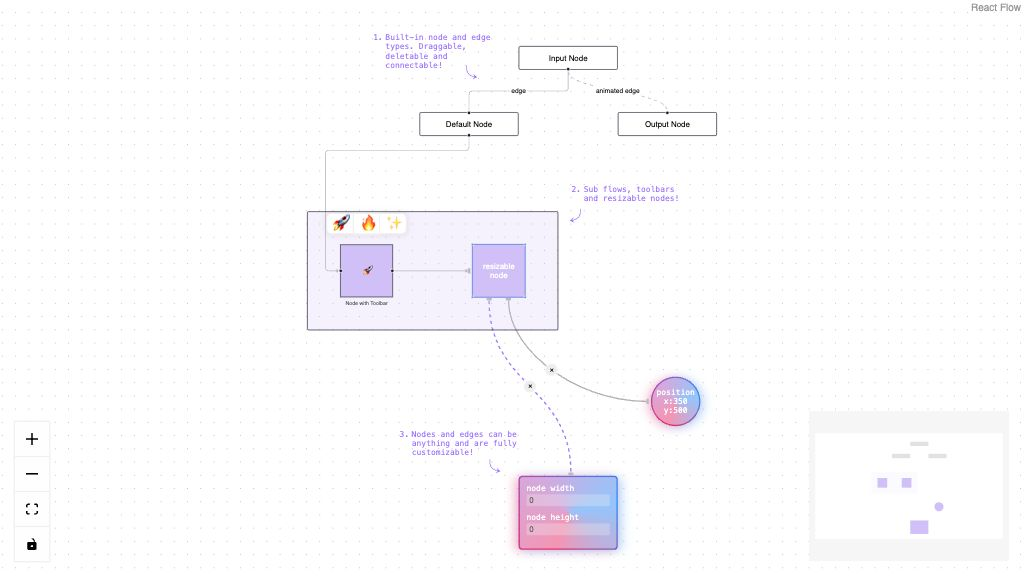
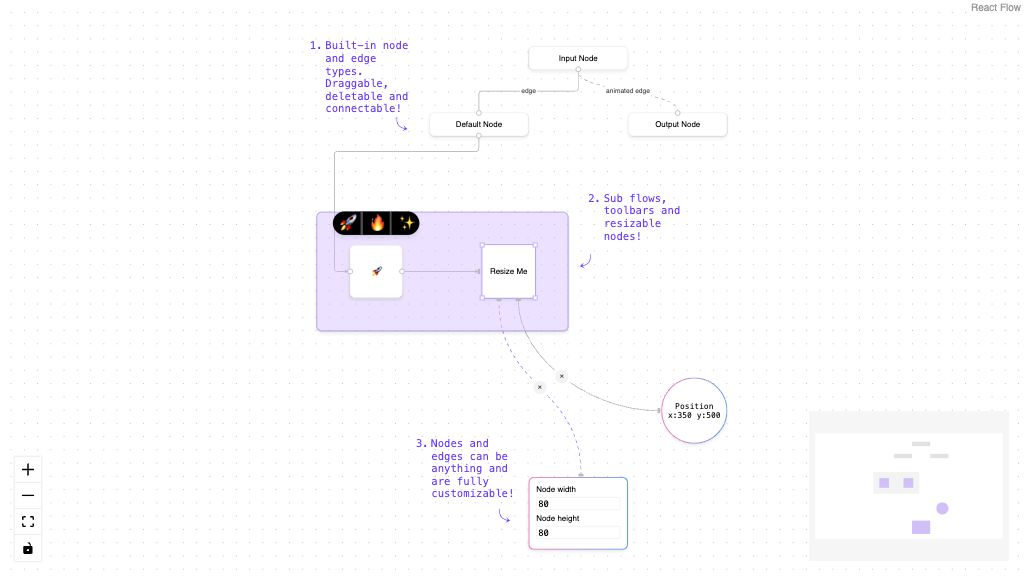
refactor(overview-example): add preview; move css groups; add theming documentation

diff --git a/apps/example-apps/react/examples/misc/overview/index.css b/apps/example-apps/react/examples/misc/overview/index.css
@@ -1,11 +1,10 @@
 
 .react-flow {
-  --xy-theme-selected-default: #B2004F;
-  --xy-theme-hover-default: #FE4C96;
+  /* Custom Variables */
+  --xy-theme-selected: #B2004F;
+  --xy-theme-hover: #FE4C96;
 
-  --xy-edge-stroke-default: #AAAAAA;
-  --xy-edge-stroke-selected-default: #FF0072;
-
+  /* Built-in Variables see https://reactflow.dev/learn/customization/theming */
   --xy-node-border-default: 1px solid #EDEDED;
 
   --xy-node-boxshadow-default: 
@@ -13,14 +12,12 @@
     0px 3.54px 4.55px 0px #0000000D, 
     0px 0.51px 1.01px 0px #0000001A;
 
-  --xy-node-boxshadow-hover-default: 0 1px 4px 1px rgba(227, 227, 227, 0.85);
   --xy-node-border-radius-default: 8px;
 
   --xy-handle-background-color-default: #ffffff;
   --xy-handle-border-color-default: #AAAAAA;
 
   --xy-edge-label-color-default: #505050;
-  --xy-resize-background-color-default: #9E86ED;
 }
 
 html,
@@ -35,7 +32,7 @@ body {
   height: 100vh;
 }
 
-/* General Nodes */
+/* Customizing Default Theming */
 
 .react-flow__node {
   box-shadow: var(--xy-node-boxshadow-default);
@@ -55,13 +52,12 @@ body {
 
 .react-flow__node.selectable:hover, 
 .react-flow__node.draggable:hover {
-  border-color: var(--xy-theme-hover-default);
+  border-color: var(--xy-theme-hover);
 }
 
 .react-flow__node.selectable.selected,
-.react-flow__node.selectable:focus,
-.react-flow__node.selectable:focus-visible {
-  border-color: var(--xy-theme-selected-default);
+.react-flow__node.selectable:focus {
+  border-color: var(--xy-theme-selected);
   box-shadow: var(--xy-node-boxshadow-default);
 }
 
@@ -71,70 +67,29 @@ body {
 }
 
 .react-flow__edge.selectable:hover .react-flow__edge-path {
-  stroke: var(--xy-theme-hover-default);
+  stroke: var(--xy-theme-hover);
 }
 
 .react-flow__edge.selectable.selected .react-flow__edge-path {
-  stroke: var(--xy-theme-selected-default);
+  stroke: var(--xy-theme-selected);
 }
 
-.react-flow__handle.connectionindicator:hover, 
-.react-flow__handle.connectingfrom {
+.react-flow__handle.connectionindicator:hover {
   pointer-events: all;
-  border-color: var(--xy-theme-hover-default);
-  background-color: var(--xy-theme-hover-default);
+  border-color: var(--xy-theme-hover);
+  background-color: var(--xy-theme-hover);
 }
 
 .react-flow__handle.connectionindicator:focus, 
-.react-flow__handle.connectingfrom {
-  pointer-events: all;
-  border-color: var(--xy-theme-selected-default);
-  background-color: var(--xy-theme-selected-default);
-}
-
-
-.react-flow__node-resizer {
-  border-radius: 0;
-  border: none;
-}
-
-.react-flow__resize-control.handle {
-  background-color: #ffffff;
-  border-color: var(--xy-resize-background-color-default);
-  border-radius: 0;
-  width: 5px;
-  height: 5px;
-}
-
-
-/* Minimap */
-
-.react-flow__minimap .group {
-  fill-opacity: 0.4;
-}
-
-.react-flow__minimap .resizer,
-.react-flow__minimap .tools,
-.react-flow__minimap .circle,
-.react-flow__minimap .textinput {
-  fill: rgb(208, 192, 247);
-}
-
-.react-flow__minimap .circle {
-  rx: 100%;
-  ry: 100%;
-}
-
-.react-flow__minimap .annotation {
-  display: none;
+.react-flow__handle.connectingfrom,
+.react-flow__handle.connectingto {
+  border-color: var(--xy-theme-selected);
+  background-color: var(--xy-theme-selected);
 }
 
 /* Circle Node */
 
 .react-flow__node-circle {
-  transform: translate(13.3214px, 390.276px);
-  pointer-events: all;
-  visibility: visible;
   border-radius: 50%;
   height: 100px;
   width: 100px;
@@ -148,29 +103,25 @@ body {
 .circle-node__inner {
   background-color: inherit;
   position: absolute;
-  top: 0;
-  left: 0; 
-  right: 0; 
-  bottom: 0; 
+  inset: 0;
   border-radius: 50%;
   display: flex;                
   justify-content: center;    
   align-items: center;     
-  margin: 1.5px;
-  pointer-events: none;
+  margin: 1.5px; 
 }
 
-/* Text Input */
+/* Text Input Node */
 
 .react-flow__node-textinput {
-  border: 0;
+  border: none;
   padding: 0;
+  font-family: monospace;
   background-image: linear-gradient(270deg, #659DF7 0%, #F57DBD 100%);
 }
 
 .text-input-node__inner {
   background-color: inherit;
-  z-index: -1;
   margin: 1.5px;
   padding: 10px;
   text-align: left;
@@ -181,11 +132,8 @@ body {
   width: 100%;
   box-sizing: border-box;
   margin: 5px 0px;
-  overflow: hidden;
-  font-family: monospace;
   border-radius: 3px;
   border: var(--xy-node-border-default);
-  outline: 0;
 }
 
 .text-input-node__input::-webkit-outer-spin-button,
@@ -196,45 +144,6 @@ input[type="number"]::-webkit-inner-spin-button {
 .text-input-node__input {
   -moz-appearance: textfield;
   appearance: textfield;
-}
-
-/* Custom Handles */
-
-.react-flow__node-resizer .react-flow__handle,
-.react-flow__node-circle .react-flow__handle,
-.react-flow__node-textinput .react-flow__handle {
-  background: #bbb;
-  border-radius: 0;
-  width: 8px;
-  height: 4px;
-  border: none;
-  min-width: 2px;
-  min-height: 2px;
-}
-
-.react-flow__node-resizer .react-flow__handle-bottom,
-.react-flow__node-circle .react-flow__handle-bottom,
-.react-flow__node-textinput .react-flow__handle-bottom {
-  bottom: -5px;
-  transform: none;
-  border-radius: 0 0 2px 2px;
-}
-
-.react-flow__node-resizer .react-flow__handle-top,
-.react-flow__node-circle .react-flow__handle-top,
-.react-flow__node-textinput .react-flow__handle-top {
-  top: -5px;
-  transform: none;
-  border-radius: 2px 2px 0 0;
-}
-
-.react-flow__node-resizer .react-flow__handle-left,
-.react-flow__node-circle .react-flow__handle-left,
-.react-flow__node-textinput .react-flow__handle-left {
-  height: 8px;
-  width: 4px;
-  left: -5px;
-  border-radius: 2px 0 0 2px;
 }
 
 /* Annotation Node */
@@ -289,6 +198,37 @@ input[type="number"]::-webkit-inner-spin-button {
   border-left: 2px solid #4d4d4d;
 }
 
+/* Resizer Node */
+
+.react-flow__node-resizer {
+  border-radius: 0;
+  border: none;
+}
+
+.react-flow__resize-control.handle {
+  background-color: #ffffff;
+  border-color: #9E86ED;
+  border-radius: 0;
+  width: 5px;
+  height: 5px;
+}
+
+.resizer-node__handles {
+  display: flex;
+  position: absolute;
+  bottom: 0;
+  width: 100%;
+  justify-content: space-evenly;
+  left: 0;
+}
+
+.resizer-node__handle {
+  position: relative;
+  left: 0;
+  transform: none;
+}
+
+
 /* Button Edge */
 
 .button-edge__label {
@@ -310,23 +250,68 @@ input[type="number"]::-webkit-inner-spin-button {
 }
 
 .button-edge__button:hover {
-  background-color: var(--xy-theme-hover-default);
+  background-color: var(--xy-theme-hover);
   color: #ffffff;
 }
 
-/* Resizer Node */
+/* Custom Handles */
 
-.resizer-node__handles {
-  display: flex;
-  position: absolute;
-  bottom: 0;
-  width: 100%;
-  justify-content: space-evenly;
-  left: 0;
+.react-flow__node-resizer .react-flow__handle,
+.react-flow__node-circle .react-flow__handle,
+.react-flow__node-textinput .react-flow__handle {
+  background: #bbb;
+  border-radius: 0;
+  width: 8px;
+  height: 4px;
+  border: none;
+  min-width: 2px;
+  min-height: 2px;
 }
 
-.resizer-node__handle {
-  position: relative;
-  left: 0;
+.react-flow__node-resizer .react-flow__handle-bottom,
+.react-flow__node-circle .react-flow__handle-bottom,
+.react-flow__node-textinput .react-flow__handle-bottom {
+  bottom: -5px;
   transform: none;
+  border-radius: 0 0 2px 2px;
+}
+
+.react-flow__node-resizer .react-flow__handle-top,
+.react-flow__node-circle .react-flow__handle-top,
+.react-flow__node-textinput .react-flow__handle-top {
+  top: -5px;
+  transform: none;
+  border-radius: 2px 2px 0 0;
+}
+
+.react-flow__node-resizer .react-flow__handle-left,
+.react-flow__node-circle .react-flow__handle-left,
+.react-flow__node-textinput .react-flow__handle-left {
+  height: 8px;
+  width: 4px;
+  left: -5px;
+  border-radius: 2px 0 0 2px;
+}
+
+
+/* Minimap */
+
+.react-flow__minimap .group {
+  fill-opacity: 0.4;
+}
+
+.react-flow__minimap .resizer,
+.react-flow__minimap .tools,
+.react-flow__minimap .circle,
+.react-flow__minimap .textinput {
+  fill: rgb(208, 192, 247);
+}
+
+.react-flow__minimap .circle {
+  rx: 100%;
+  ry: 100%;
+}
+
+.react-flow__minimap .annotation {
+  display: none;
 }
